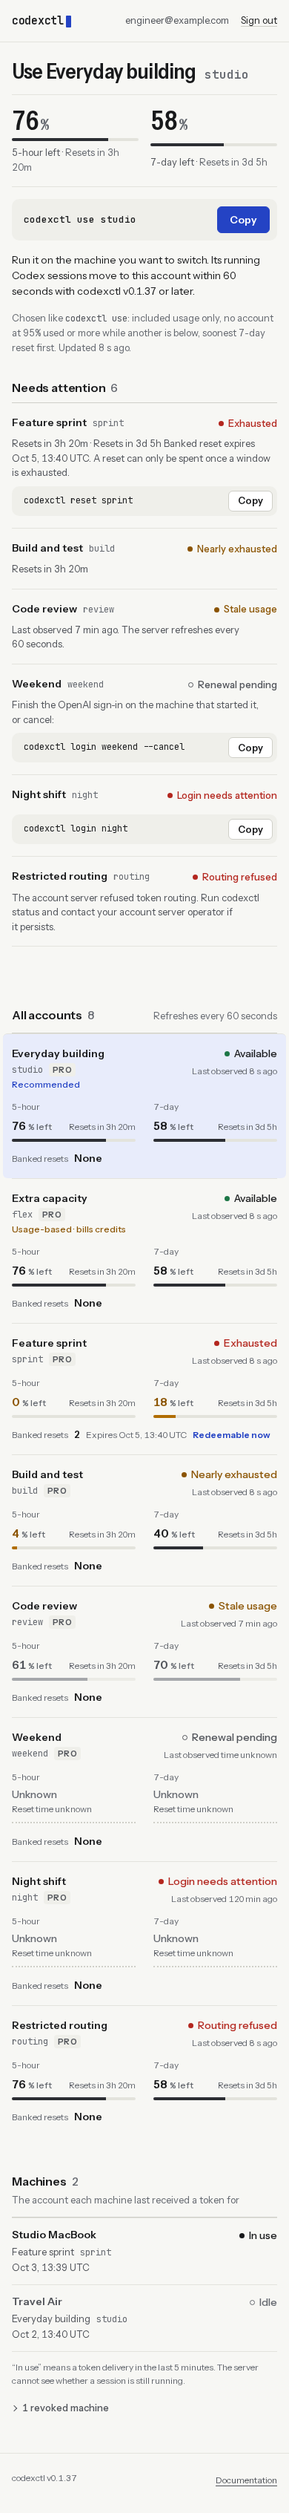
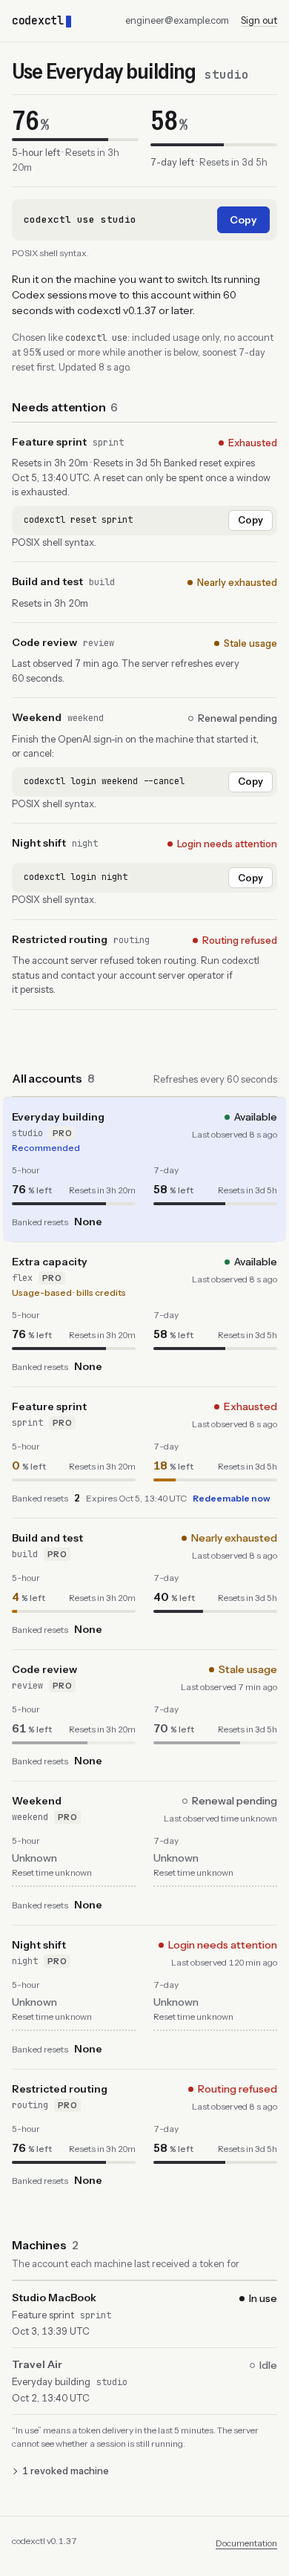
fix(web): ignore unrefreshable accounts in validity

diff --git a/src/central/dashboard/landing.html b/src/central/dashboard/landing.html
@@ -47,6 +47,7 @@
               Copy
             </button>
           </div>
+          <p class="command-note">POSIX shell syntax.</p>
           <details data-param="platform" data-value="linux">
             <summary>Linux<span class="faint">arm64 and x86_64</span></summary>
             <p class="muted">
@@ -85,6 +86,7 @@ codexctl --version</code></pre>
                 Copy
               </button>
             </div>
+            <p class="command-note">POSIX shell syntax.</p>
             <p class="hint">
               Add <code translate="no">$HOME/.local/bin</code> to your shell’s
               PATH so new terminals find the command.
@@ -110,6 +112,7 @@ codexctl --version</code></pre>
               Copy
             </button>
           </div>
+          <p class="command-note">POSIX shell syntax.</p>
           <p>
             Replace <code translate="no">&lt;machine&gt;</code> with a name you
             will recognize, such as “Studio MacBook”.

diff --git a/src/central/dashboard/script.js b/src/central/dashboard/script.js
@@ -5,9 +5,7 @@
   if (!byId("overview")) return;
   // Snapshot ages already include server-side work. Only age them from the
   // response's arrival, otherwise slow upstream reads get counted twice.
-  let received =
-      performance.getEntriesByType("navigation")[0]?.responseStart ??
-      performance.now(),
+  let received = performance.now(),
     inFlight = false,
     ended = false,
     pollTimer,
@@ -140,7 +138,7 @@
   function tick() {
     if (ended) return;
     const root = byId("overview");
-    if (root.dataset.loadError) return;
+    if (root.dataset.loadError || root.dataset.hasAccounts === "false") return;
     const elapsed = (performance.now() - received) / 1000;
     if (
       elapsed >= Number(root.dataset.validFor) &&

diff --git a/src/central/dashboard/page.html b/src/central/dashboard/page.html
@@ -5,6 +5,7 @@
     <meta name="viewport" content="width=device-width, initial-scale=1" />
     <meta name="color-scheme" content="light dark" />
     <title>codexctl · Account server</title>
+    <!-- ACCOUNT_REFRESH -->
     <!-- STYLES -->
   </head>
   <body>

diff --git a/src/central/dashboard/style.css b/src/central/dashboard/style.css
@@ -1377,3 +1377,5 @@ progress.meter.warn::-moz-progress-bar {
 .overview-expired .fresh-action {
   display: none;
 }
+
+.command-note { margin: -8px 0 0; color: var(--ink-3); font-size: var(--t-xs); }

diff --git a/src/central/dashboard/accounts.html b/src/central/dashboard/accounts.html
@@ -1,5 +1,6 @@
 <div
   id="overview"
+  data-has-accounts="{has_accounts}"
   data-server-time="{server_time}"
   data-valid-for="{valid_for}"
   data-refresh-margin="{refresh_margin}"

diff --git a/src/central/dashboard/render/tests.rs b/src/central/dashboard/render/tests.rs
@@ -207,3 +207,56 @@ fn option_like_aliases_are_passed_as_positional_arguments() {
     data.accounts[0].state = "renewal_pending".into();
     assert!(overview(&data).contains("codexctl login --cancel -- --help"));
 }
+
+#[test]
+fn page_validity_ignores_accounts_that_cannot_refresh_the_answer() {
+    for (state, refused) in [
+        ("available", true),
+        ("unavailable", true),
+        ("unavailable", false),
+        ("renewal_pending", false),
+    ] {
+        for age in [30, 59, 60] {
+            let mut data = fixture();
+            data.accounts.truncate(1);
+            data.accounts[0].usage_age_seconds = Some(5);
+            let mut unavailable = data.accounts[0].clone();
+            unavailable.alias = "cannot-refresh".into();
+            unavailable.state = state.into();
+            unavailable.routing_refused = refused;
+            unavailable.usage_age_seconds = Some(age);
+            data.accounts.push(unavailable);
+            let html = overview(&data);
+            assert!(html.contains("codexctl use studio"));
+            assert!(
+                html.contains("data-valid-for=\"55\""),
+                "{state}, routing refused {refused}, age {age} must not shorten the ready account's validity"
+            );
+        }
+    }
+}
+
+#[test]
+fn validity_uses_only_refreshable_accounts_and_empty_pages_do_not_expire() {
+    let mut data = fixture();
+    data.accounts.truncate(1);
+    data.accounts[0].usage_age_seconds = Some(5);
+    let mut routing = data.accounts[0].clone();
+    routing.alias = "routing".into();
+    routing.state = "available".into();
+    routing.routing_refused = true;
+    routing.usage_age_seconds = Some(59);
+    data.accounts.push(routing);
+    assert!(overview(&data).contains("data-valid-for=\"55\""));
+    let mut empty = data;
+    empty.accounts.clear();
+    let html = overview(&empty);
+    assert!(html.contains("data-has-accounts=\"false\""));
+    assert!(!html.contains("data-valid-for=\"0\""));
+}
+
+#[test]
+fn account_commands_identify_posix_shell_syntax() {
+    let html = overview(&fixture());
+    assert!(html.matches("POSIX shell syntax.").count() >= 4);
+}

diff --git a/src/central/dashboard/render.rs b/src/central/dashboard/render.rs
@@ -155,7 +155,7 @@ fn command(id: &str, text: &str, primary: bool) -> String {
     let class = if primary { "primary" } else { "small" };
     let text = escape(text);
     format!(
-        r#"<div class="command"><pre tabindex="0"><code id="{id}" translate="no">{text}</code></pre><button class="button {class} copy" type="button" data-copy="{id}" aria-label="Copy {text}">Copy</button></div>"#
+        r#"<div class="command"><pre tabindex="0"><code id="{id}" translate="no">{text}</code></pre><button class="button {class} copy" type="button" data-copy="{id}" aria-label="Copy {text}">Copy</button></div><p class="command-note">POSIX shell syntax.</p>"#
     )
 }
 fn date(at: i64) -> String {
@@ -546,12 +546,15 @@ fn machines(snapshot: &Snapshot) -> String {
 pub(super) fn overview(snapshot: &Snapshot) -> String {
     let best = recommendation(&snapshot.accounts);
     let all_stale = !snapshot.accounts.is_empty() && snapshot.accounts.iter().all(Account::stale);
+    // Only observations we can refresh can set the browser's next refresh.
+    // Unavailable/routing-refused accounts do not affect the answer and may
+    // retain old telemetry indefinitely.
     let valid_for = snapshot
         .accounts
         .iter()
-        .filter(|a| !a.stale())
+        .filter(|a| a.ready())
         .filter_map(|a| a.usage_age_seconds)
-        .map(|age| 60 - age)
+        .map(|age| 60u64.saturating_sub(age))
         .min()
         .unwrap_or(60);
     let notice = if all_stale {
@@ -564,6 +567,11 @@ pub(super) fn overview(snapshot: &Snapshot) -> String {
         include_str!("accounts.html"),
         email = email,
         server_time = snapshot.server_time,
+        has_accounts = if snapshot.accounts.is_empty() {
+            "false"
+        } else {
+            "true"
+        },
         valid_for = valid_for,
         refresh_margin = super::super::catalog::REFRESH_MARGIN.as_secs(),
         notice = notice,

diff --git a/src/central/dashboard.rs b/src/central/dashboard.rs
@@ -263,7 +263,13 @@ fn document(content: &str) -> Response {
     let policy = format!(
         "default-src 'none'; style-src 'sha256-{style_hash}'; script-src 'sha256-{script_hash}'; font-src 'self'; connect-src 'self'; form-action 'self'; frame-ancestors 'none'; base-uri 'none'"
     );
+    let refresh = if content.contains("data-has-accounts") {
+        r#"<noscript><meta http-equiv="refresh" content="60"></noscript>"#
+    } else {
+        ""
+    };
     let html = include_str!("dashboard/page.html")
+        .replace("<!-- ACCOUNT_REFRESH -->", refresh)
         .replace("<!-- STYLES -->", &format!("<style>{styles}</style>"))
         .replace("<!-- CONTENT -->", content)
         .replace("<!-- SCRIPT -->", &format!("<script>{script}</script>"))
